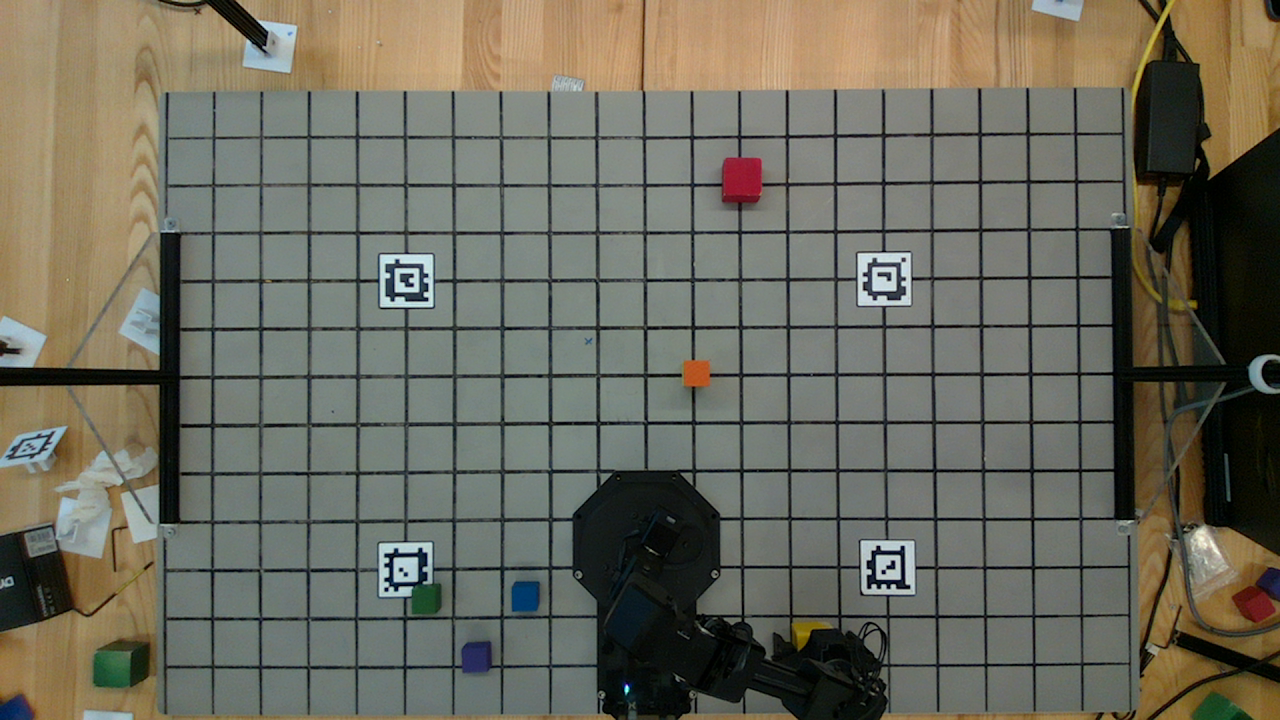
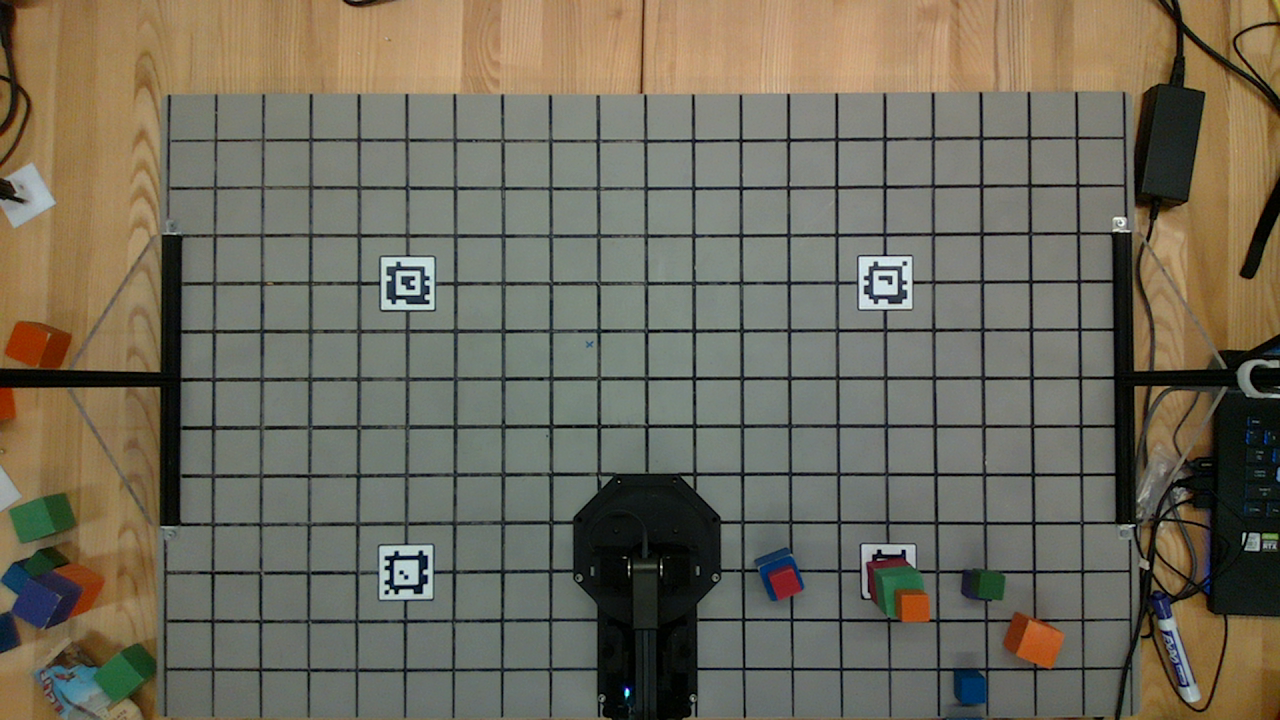
update event2,3,4

diff --git a/state_machine.py b/state_machine.py
@@ -420,7 +420,7 @@ class StateMachine():
                     success = self.rxarm.move_above(large_store_positions[curr_large_store_current_idx,:], 90*D2R, vertical=True)
                     if not success:
                         continue
-                    self.rxarm.place_on(large_store_positions[curr_large_store_current_idx,:], 90*D2R, vertical=True)
+                    self.rxarm.place_on(large_store_positions[curr_large_store_current_idx,:], 90*D2R,block.is_large, vertical=True)
                     self.rxarm.move_above(large_store_positions[curr_large_store_current_idx,:], 90*D2R, vertical=True)
 
                     curr_large_store_current_idx += 1
@@ -430,7 +430,7 @@ class StateMachine():
                     success = False
                     # while not success:
                     success = self.rxarm.move_above(small_store_positions[curr_small_store_current_idx,:], -90*D2R, vertical=True)
-                    self.rxarm.place_on(small_store_positions[curr_small_store_current_idx,:], -90*D2R, vertical=True)
+                    self.rxarm.place_on(small_store_positions[curr_small_store_current_idx,:], -90*D2R, block.is_large, vertical=True)
                     self.rxarm.move_above(small_store_positions[curr_small_store_current_idx,:], -90*D2R, vertical=True)
                     curr_small_store_current_idx += 1
                     curr_small_store_current_idx %= len(small_store_positions)
@@ -558,7 +558,7 @@ class StateMachine():
                 success = self.rxarm.move_above(place_on_position, 90*D2R, vertical=True)
                 if not success:
                     continue
-                self.rxarm.place_on(place_on_position, 90*D2R, vertical=True)
+                self.rxarm.place_on(place_on_position, 90*D2R, current_block.is_large,vertical=True)
                 self.rxarm.move_above(place_on_position, 90*D2R, vertical=True)
 
             else: # Store block for future
@@ -566,7 +566,7 @@ class StateMachine():
                 success = self.rxarm.move_above(store_positions[curr_store_current_idx,:], -90*D2R, vertical=True)
                 if not success:
                     continue
-                self.rxarm.place_on(store_positions[curr_store_current_idx,:], -90*D2R, vertical=True)
+                self.rxarm.place_on(store_positions[curr_store_current_idx,:], -90*D2R, current_block.is_large,vertical=True)
                 self.rxarm.move_above(store_positions[curr_store_current_idx,:], -90*D2R, vertical=True)
 
                 curr_store_current_idx += 1
@@ -686,8 +686,8 @@ class StateMachine():
                 if large_slot_idx == 5:
                     push_position = place_on_position.copy()
                     push_position[1] += 75
-                    self.rxarm.place_on(place_on_position, 0, vertical=True, open = False)
-                    self.rxarm.place_on(push_position, 0, vertical=True, open = True)
+                    self.rxarm.place_on(place_on_position, 0, current_block.is_large,vertical=True, open = False)
+                    self.rxarm.place_on(push_position, 0, current_block.is_large,vertical=True, open = True)
                 else:
                     self.rxarm.place_on(place_on_position, 0, vertical=True, open = True)
                 
@@ -703,10 +703,10 @@ class StateMachine():
                 if small_slot_idx == 5:
                     push_position = place_on_position.copy()
                     push_position[1] += 90
-                    self.rxarm.place_on(place_on_position, 0, vertical=True, open = False)
-                    self.rxarm.place_on(push_position, 0, vertical=True, open = True)
+                    self.rxarm.place_on(place_on_position, 0, current_block.is_large,vertical=True, open = False)
+                    self.rxarm.place_on(push_position, 0, current_block.is_large,vertical=True, open = True)
                 else:
-                    self.rxarm.place_on(place_on_position, 0, vertical=True, open = True)
+                    self.rxarm.place_on(place_on_position, 0, current_block.is_large,vertical=True, open = True)
                 
             if self.next_state == "estop" or self.next_state == "initialize_rxarm":
                 return
@@ -724,9 +724,9 @@ class StateMachine():
 
         self.rxarm.stow_arm()
 
-        large_stack_position = np.array([125, 250, 0])# in world frame
+        large_stack_position = np.array([150, 150, 0])# in world frame
 
-        small_stack_position = np.array([-125, 250, 0])# in world frame
+        small_stack_position = np.array([-150, 150, 0])# in world frame
 
 
         color_index_map = {"red": 0,
@@ -755,8 +755,11 @@ class StateMachine():
             # blocks_left = filter(lambda block: block.top_face_position[1] > 0,self.current_blocks)
             large_blocks_store = filter(lambda block: block.top_face_position[0] > 0 and block.top_face_position[1] < 0,self.current_blocks)
             small_blocks_store = filter(lambda block: block.top_face_position[0] < 0 and block.top_face_position[1] < 0,self.current_blocks)
-            large_blocks_store.sort(key=lambda block: color_index_map[block.color])
-            small_blocks_store.sort(key=lambda block: color_index_map[block.color])
+            # large_blocks_store.sort(key=lambda block: color_index_map[block.color])
+            # small_blocks_store.sort(key=lambda block: color_index_map[block.color])
+            large_blocks_store.sort(key=lambda block: block.hue)
+            small_blocks_store.sort(key=lambda block: block.hue)
+
             large_stack = filter(lambda block: block.top_face_position[0] > 0 and block.top_face_position[1] > 0,self.current_blocks)
             small_stack = filter(lambda block: block.top_face_position[0] < 0 and block.top_face_position[1] > 0,self.current_blocks)
             
@@ -778,20 +781,24 @@ class StateMachine():
             for block in selected_blocks:
                 print(block)
             
-            if(len(selected_blocks) > 1):
-                block_color_idxs = [color_index_map[block.color] for block in selected_blocks]
-                if block_color_idxs[0] == block_color_idxs[1]:
-                    current_block = min(selected_blocks[:2], key=lambda block: block.color_dist)
-                else:
-                    current_block = selected_blocks[0]
-            else:
-                current_block = selected_blocks[0]   
+            # if(len(selected_blocks) > 1):
+            #     block_color_idxs = [color_index_map[block.color] for block in selected_blocks]
+            #     if block_color_idxs[0] == block_color_idxs[1]:
+            #         current_block = min(selected_blocks[:2], key=lambda block: block.color_dist)
+            #     else:
+            #         current_block = selected_blocks[0]
+            # else:
+            current_block = selected_blocks[0]   
             print("Going to block", current_block.color,"at",current_block.top_face_position,current_block.angle)
             self.rxarm.go_to_safe(center=False)
             success = self.rxarm.move_above(current_block.top_face_position, current_block.angle, vertical=approach_vertically)
             if (not success):
                 continue
-            self.rxarm.grab(current_block.top_face_position,current_block.angle, current_block.is_large, vertical=approach_vertically)
+            if current_block.is_large:
+                grab_angle = 90*D2R
+            else:
+                grab_angle = -90*D2R
+            self.rxarm.grab(current_block.top_face_position,grab_angle, current_block.is_large, vertical=approach_vertically)
             self.rxarm.move_above(current_block.top_face_position, current_block.angle, vertical=approach_vertically)
 
             print("grab finished")
@@ -803,6 +810,7 @@ class StateMachine():
                 if (len(large_stack) == 0):
                     place_on_position = large_stack_position
                 else:
+                    print('top face of large stack', large_stack[0].top_face_position)
                     place_on_position = large_stack[0].top_face_position #stack_positions[stack_actual_positions_idx[stack_index]].copy()
                     # place_on_position[2] = stacks[stack_index].top_face_position[2]
                 print("Stacking on",place_on_position,"large stack")
@@ -810,7 +818,7 @@ class StateMachine():
                 # success = self.rxarm.move_above(place_on_position, 90*D2R, vertical=True)
                 if not success:
                     continue
-                self.rxarm.place_on(place_on_position, 0, vertical=True)
+                self.rxarm.place_on(place_on_position, 0*D2R, current_block.is_large,vertical=True,direct_place=True)
                 # self.rxarm.move_above(place_on_position, 90*D2R, vertical=True)
             else:
                 if (len(small_stack) == 0):
@@ -823,7 +831,7 @@ class StateMachine():
                 # success = self.rxarm.move_above(place_on_position, -90*D2R, vertical=True)
                 if not success:
                     continue
-                self.rxarm.place_on(place_on_position, 0, vertical=True)
+                self.rxarm.place_on(place_on_position, -0*D2R, current_block.is_large, vertical=True, direct_place=True)
                 # self.rxarm.move_above(place_on_position, -90*D2R, vertical=True)
 
                 

diff --git a/camera.py b/camera.py
@@ -53,9 +53,9 @@ class Camera():
         self.block_detections = np.array([])
 
         self.color_dict = OrderedDict({
-            'red': (20, 20, 200),
-            'orange': (0, 80, 250),
-            'yellow': (0, 170, 255),
+            'red': (0, 0, 170),
+            'orange': (0, 80, 200),
+            'yellow': (0, 175, 255),
             'dark_green': (30, 110, 20),
             'light_green': (50, 135, 40),
             'blue': (110, 68, 10),
@@ -103,13 +103,14 @@ class Camera():
         BlockImageFrame = self.VideoFrame.copy()
         blurred = cv2.GaussianBlur(BlockImageFrame, (5, 5), 0)
         lab_image = cv2.cvtColor(blurred, cv2.COLOR_RGB2LAB)
+        hsv_image = cv2.cvtColor(blurred, cv2.COLOR_RGB2HSV)
         font = cv2.FONT_HERSHEY_SIMPLEX
 
         for block, depth in zip(self.block_contours, self.block_depths):
-            color_index, dist = self.retrieve_area_color(lab_image, block, self.lab_colors)
+            color_index, dist, hue = self.retrieve_area_color(lab_image, block, self.lab_colors, hsv_image)
             min_color = self.color_dict.keys()[color_index]
 
-            theta = cv2.minAreaRect(block)[2]
+            theta = cv2.minAreaRect(block)[2] % 90.0
             M = cv2.moments(block)
             if M['m00'] == 0:
                 continue
@@ -326,28 +327,31 @@ class Camera():
 
         blurred = cv2.GaussianBlur(BlockImageFrame, (5, 5), 0)
         lab_image = cv2.cvtColor(blurred, cv2.COLOR_RGB2LAB)
+        hsv_image = cv2.cvtColor(blurred, cv2.COLOR_RGB2HSV)
         block_colors = []
         color_dists = []
+        hue_list = []
         for block in block_contours:
-            color_index, dist = self.retrieve_area_color(lab_image, block, self.lab_colors)
+            color_index, dist, hue = self.retrieve_area_color(lab_image, block, self.lab_colors, hsv_image)
             min_color = self.color_dict.keys()[color_index]
 
             block_colors.append(min_color)
             color_dists.append(dist)
+            hue_list.append(hue)
 
-        return block_colors, color_dists
+        return block_colors, color_dists, hue_list
        
 
     def detect_blocks(self, ee_pose):
         depth_block_contours, top_depths = self.detectBlocksInDepthImage()
 
-        block_colors, color_dists = self.getBlockColors(depth_block_contours)
+        block_colors, color_dists, hue_list = self.getBlockColors(depth_block_contours)
 
         K = self.intrinsic_matrix
         H_camera_to_world = self.extrinsic_matrix
 
         detected_blocks = []
-        for (block_contour, top_depth, block_color, color_dist) in zip(depth_block_contours, top_depths,block_colors, color_dists):
+        for (block_contour, top_depth, block_color, color_dist, hue) in zip(depth_block_contours, top_depths,block_colors, color_dists, hue_list):
             theta = math.radians(cv2.minAreaRect(block_contour)[2] % 90.0)
             M = cv2.moments(block_contour)
             if M['m00'] == 0:
@@ -372,7 +376,7 @@ class Camera():
             #     if (math.isclose(bottom_height,0,abs_tol=1.0)):
             #         pass
 
-            block = Block(block_position_world, theta, is_large=is_large, ignore=False, color=block_color, color_dist=color_dist)
+            block = Block(block_position_world, theta, is_large=is_large, ignore=False, color=block_color, color_dist=color_dist, hue=hue)
             detected_blocks.append(block)      
 
         return detected_blocks
@@ -381,10 +385,11 @@ class Camera():
         cv2.imwrite("data/rgb_image.png", cv2.cvtColor(self.VideoFrame, cv2.COLOR_RGB2BGR))
         cv2.imwrite("data/raw_depth.png", self.DepthFrameRaw)
 
-    def retrieve_area_color(self, data, contour, known_colors):
+    def retrieve_area_color(self, data, contour, known_colors, hsv_image):
         mask = np.zeros(data.shape[:2], dtype="uint8")
         cv2.drawContours(mask, [contour], -1, 255, -1)
         mean = cv2.mean(data, mask=mask)[:3]
+        hue = cv2.mean(hsv_image, mask=mask)[0]
         min_dist = (np.inf, None)
         for (i, color) in enumerate(known_colors):
             # print("Color:",color[0])
@@ -392,13 +397,13 @@ class Camera():
             d = distance.euclidean(color[0], mean)
             if d < min_dist[0]:
                 min_dist = (d, i)
-        return min_dist[1], min_dist[0]
+        return min_dist[1], min_dist[0], hue
 
     def retrieve_top_depth(self, depth, contour):
         mask = np.zeros(depth.shape, dtype="uint8")
         cv2.drawContours(mask, [contour], -1, 255, -1)
 
-        top_depth = np.percentile(depth[mask == 255], 30)
+        top_depth = np.percentile(depth[mask == 255], 15)
         # for i in range(10):
         #     print("Contour",contour[0],"Percentile:",i*10,np.percentile(depth[mask == 255], i*10))
         mask = (cv2.bitwise_and(mask, cv2.inRange(depth, top_depth - 5, top_depth + 5))) #.astype(np.uint8) * 255

diff --git a/rxarm.py b/rxarm.py
@@ -69,8 +69,8 @@ class RXArm(InterbotixRobot):
         # self.elbow_diff = 0.001215238360935
 
         self.shoulder_diff = -3*D2R
-        self.elbow_diff = 4*D2R
-        self.wran_diff = 4.5*D2R
+        self.elbow_diff = 0*D2R
+        self.wran_diff = 4*D2R
 
 
         
@@ -263,6 +263,7 @@ class RXArm(InterbotixRobot):
         move_time = max_delta / self.max_angular_vel
         # joint_positions[1]+=self.shoulder_diff
         # joint_positions[2]+=self.elbow_diff
+        joint_positions[2]+=self.elbow_diff
         joint_positions[3]+=self.wran_diff
         self.set_joint_positions(joint_positions,
                                  moving_time= move_time,
@@ -334,9 +335,9 @@ class RXArm(InterbotixRobot):
         joint_angle_guess = self.get_positions()
         T_grab = self.T.copy()
         if is_large:
-            T_grab[2,3] += 5
+            T_grab[2,3] += 17
         else:
-            T_grab[2,3] += 15
+            T_grab[2,3] += 30
         
         print(T_grab[:,3])
         desired_joint_angle, IK_flag = IK_Base_frame_constrained(self.S_list, self.M_matrix, T_grab, joint_angle_guess, 0.01, 0.001,self.resp.upper_joint_limits, self.resp.lower_joint_limits)
@@ -370,6 +371,7 @@ class RXArm(InterbotixRobot):
                     [0, 1, 0, object_position_arm[1]],
                     [-1, 0, 0, object_position_arm[2]],
                     [0, 0, 0, 1]]) # destination
+            # theta = np.arctan2(object_position_arm[1], object_position_arm[0])
             self.T[0:3,0:3] = np.matmul(Rz(-angle), self.T[0:3,0:3])
             self.T[1,3] = 1.0423*self.T[1,3] - 0.575
             self.T[0,3] = self.T[0,3]*1.03167 - 0.20825
@@ -378,7 +380,10 @@ class RXArm(InterbotixRobot):
         else:
             joint_angle_guess = self.get_positions()
         T_drop = self.T.copy()
-        T_drop[2,3] += 40
+        if is_large:
+            T_drop[2,3] += 53
+        else:
+            T_drop[2,3] += 50
         # print(T_drop[:,3])
         desired_joint_angle, IK_flag = IK_Base_frame_constrained(self.S_list, self.M_matrix, T_drop, joint_angle_guess, 0.01, 0.001,self.resp.upper_joint_limits, self.resp.lower_joint_limits)
 

diff --git a/utility_functions.py b/utility_functions.py
@@ -227,7 +227,7 @@ class Block:
 
     ASSOCIATION_DISTANCE = 12 # in mm
 
-    def __init__(self, top_face_position, angle, is_large, ignore=False, contour=None, color=None, color_dist=None, possible_blocks_beneath = []):
+    def __init__(self, top_face_position, angle, is_large, ignore=False, contour=None, color=None, color_dist=None, possible_blocks_beneath = [], hue=None):
         self.top_face_position = top_face_position # Defined to center of top face
         self.angle = angle
         self.is_large = is_large
@@ -235,6 +235,7 @@ class Block:
         self.color = color
         self.possible_blocks_beneath = possible_blocks_beneath
         self.color_dist = color_dist
+        self.hue = hue
 
     def __repr__(self):
         return "XYZ: ({0:.2f}, {1:.2f}, {2:.2f})  Angle: {3:.2f}  Large: {4}  Color: {5} Color Dist: {6:.2f}".format(self.top_face_position[0], self.top_face_position[1], self.top_face_position[2], self.angle, self.is_large, self.color, self.color_dist)

diff --git a/control_station.py b/control_station.py
@@ -73,7 +73,7 @@ class Gui(QMainWindow):
         else:
             self.camera.extrinsic_matrix =np.array([[ 1,   0,   0,    15 ],
                                                     [ 0,  -1,   0,   1.729929951343542882e2 + 23 ],
-                                                    [ 0,   0,  -1,   980 ],
+                                                    [ 0,   0,  -1,   972 ],
                                                     [ 0,   0,   0,     1 ]])
         # self.camera.distortion_coeffs = np.array([0.15564486384391785, -0.48568257689476013, -0.0019681642297655344, 0.0007267732871696353, 0.44230175018310547])
         self.camera.distortion_coeffs = np.array([ 0.07636514, -0.1292355,  -0.00093855,  0.00284562,  0.        ])

diff --git a/opencv/label_blocks.py b/opencv/label_blocks.py
@@ -78,7 +78,7 @@ def retrieve_top_depth(depth, contour):
     mask = np.zeros(depth.shape, dtype="uint8")
     cv2.drawContours(mask, [contour], -1, 255, -1)
 
-    top_depth = np.percentile(depth[mask == 255], 30)
+    top_depth = np.percentile(depth[mask == 255], 15)
     mask = (cv2.bitwise_and(mask, cv2.inRange(depth, top_depth - 5, top_depth + 5))) #.astype(np.uint8) * 255
     return top_depth, mask
 
